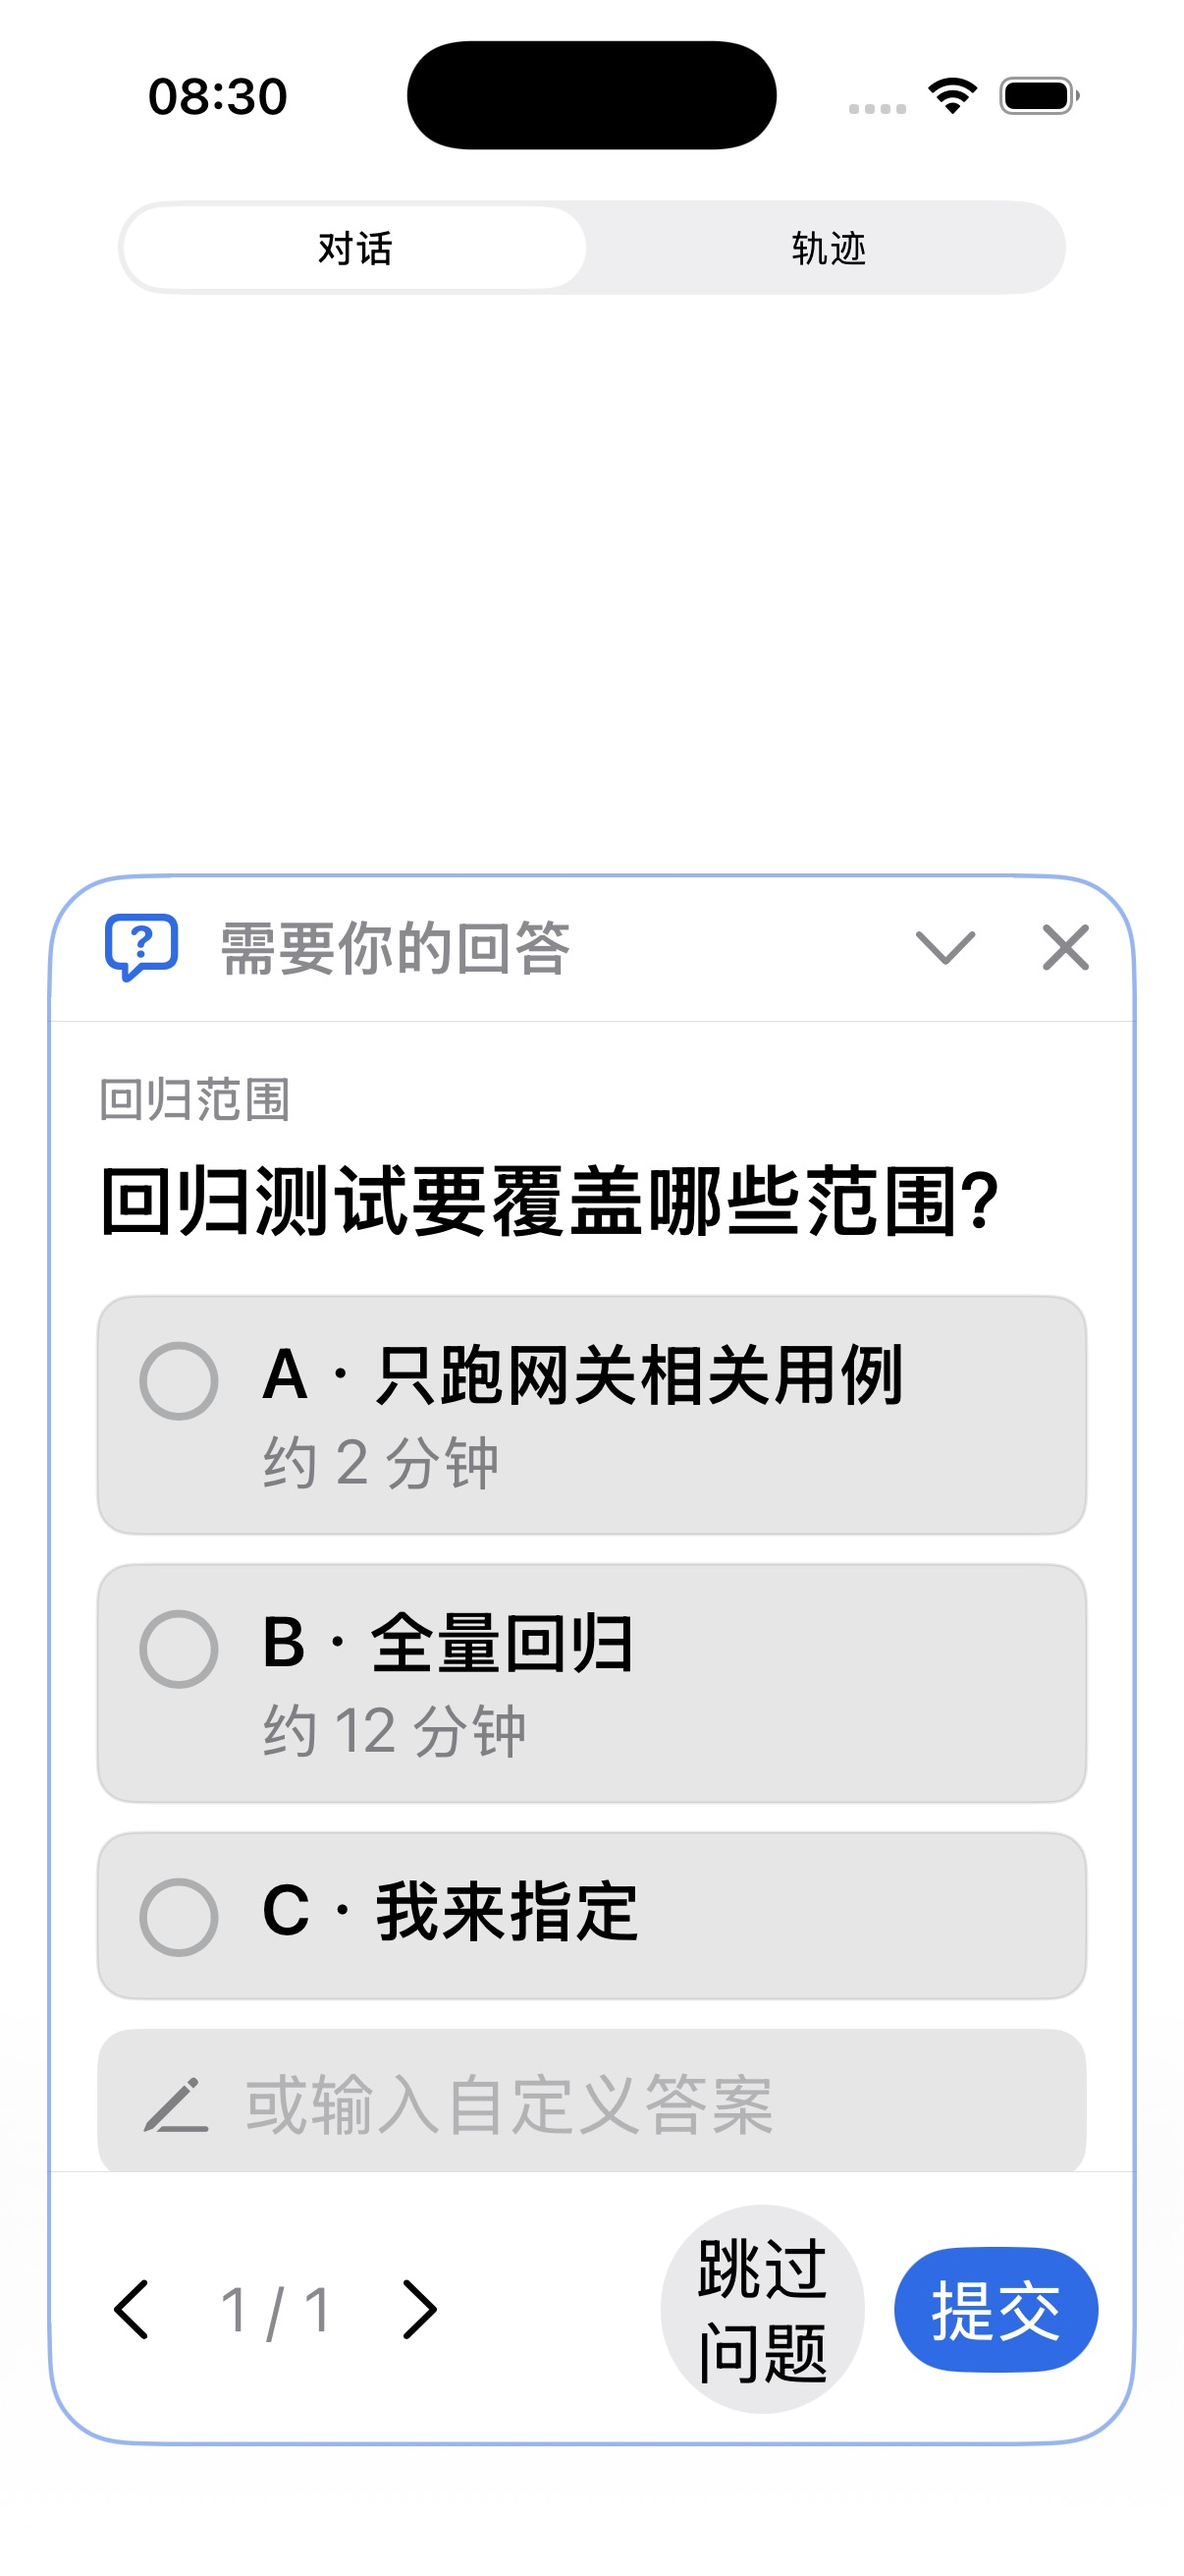
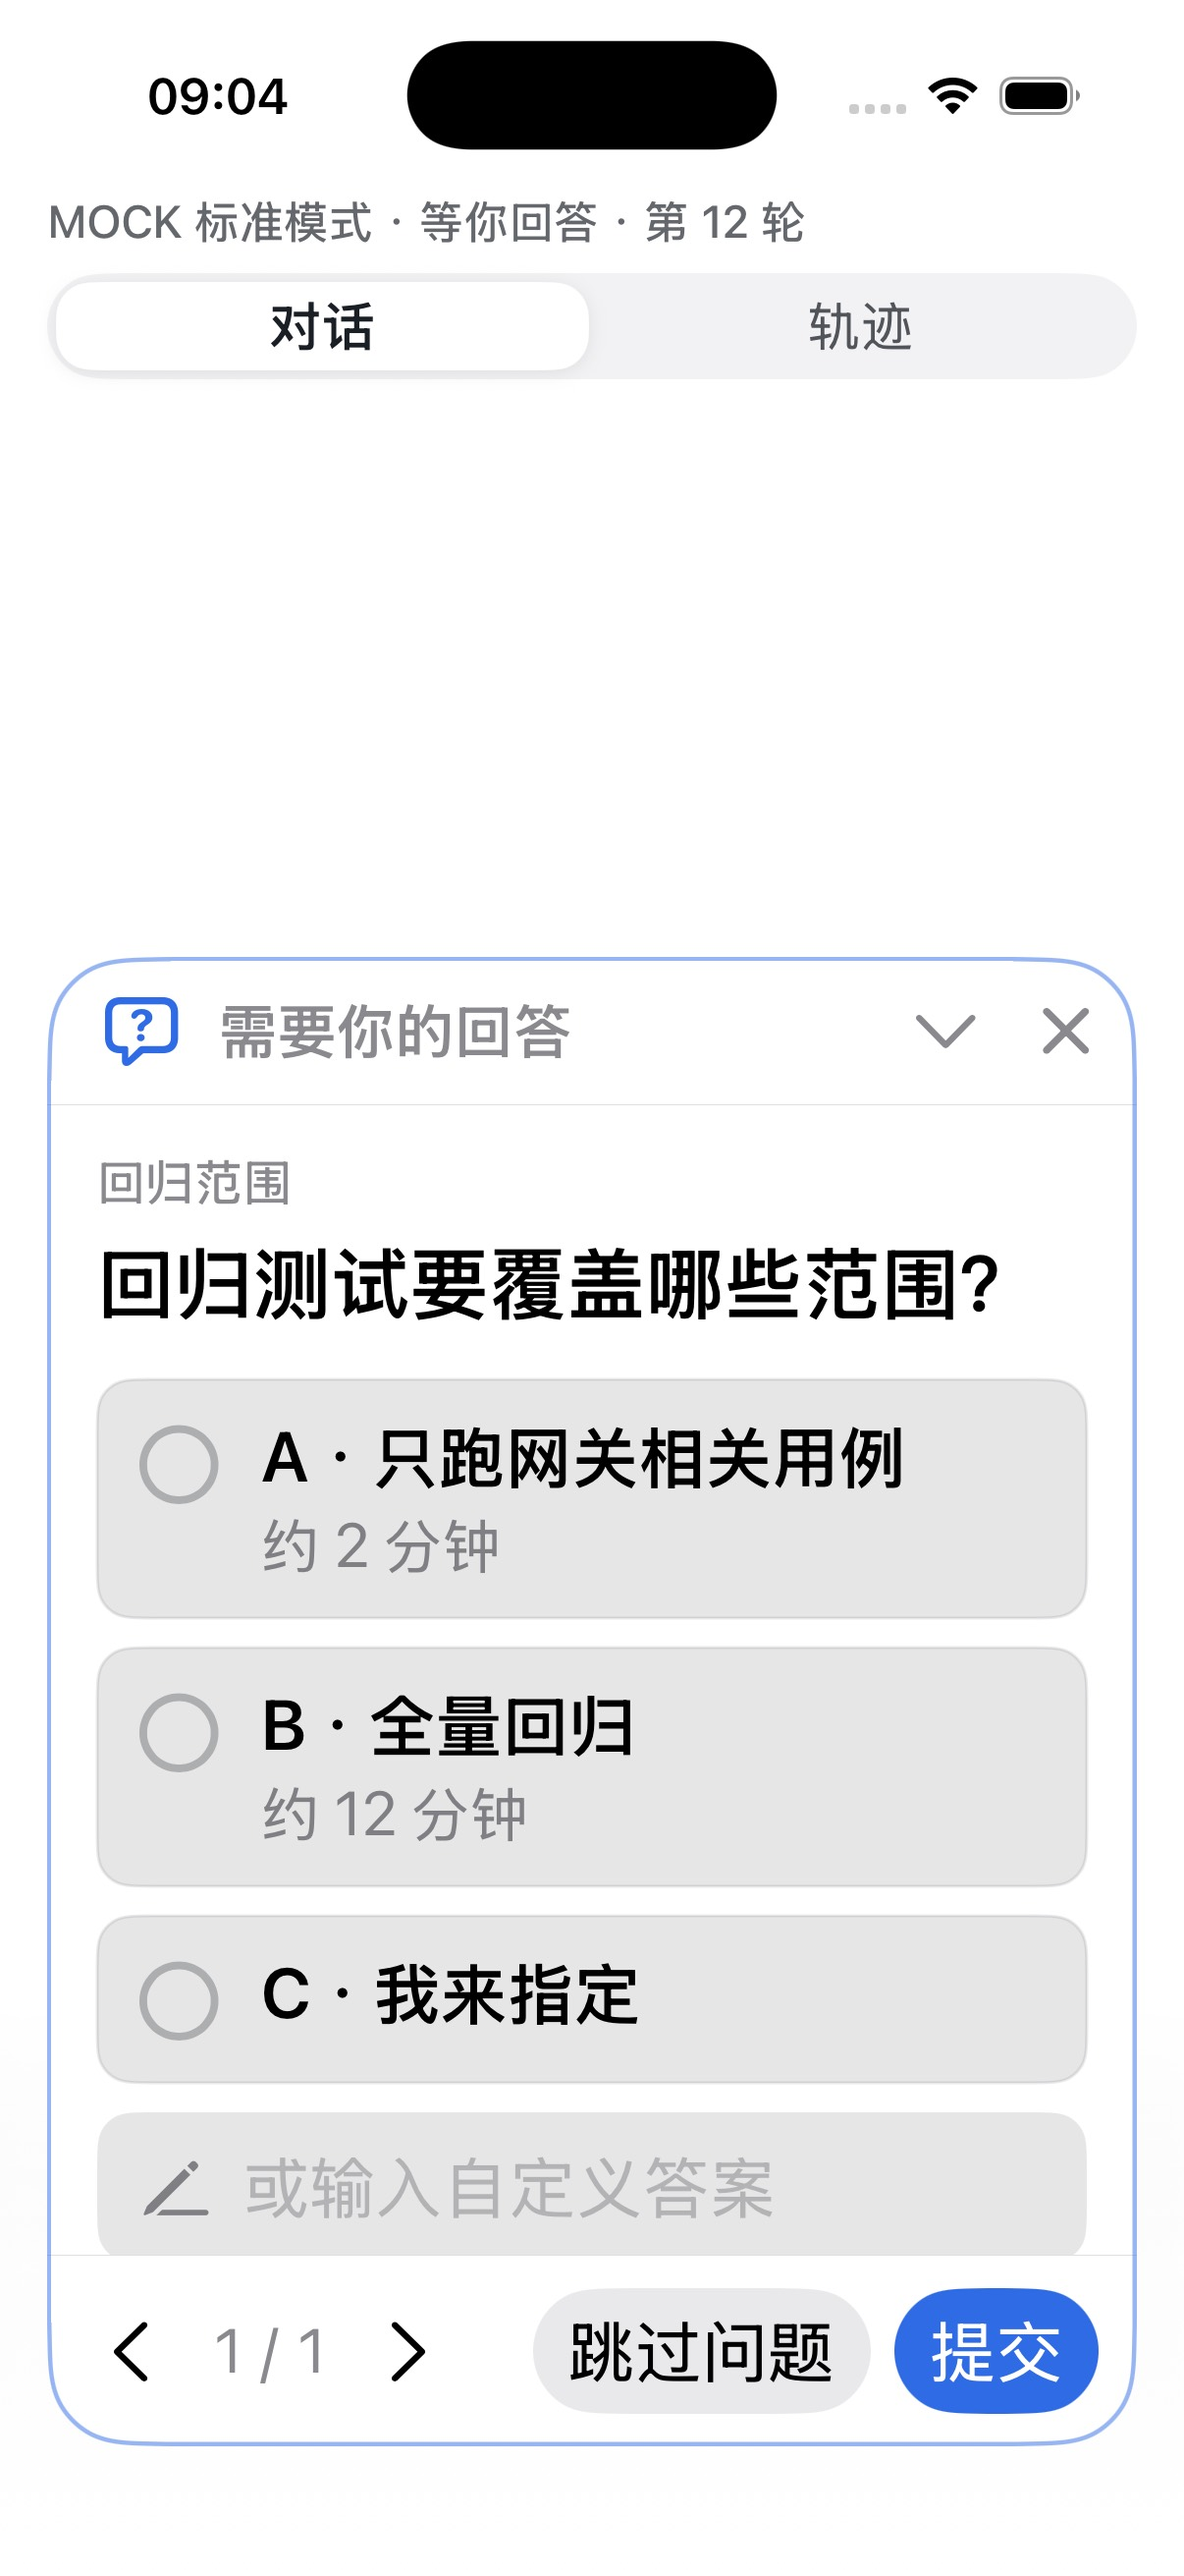
fix(ui): 05 问答卡 footer 不再拆行 —— 「跳过问题」与提交保持单行胶囊
本笔解决什么（Chief 退回项，选了方案 A）：
- footer 的「跳过问题」「提交/下一题」加 `.fixedSize(horizontal: true, vertical: false)`，
  宽度不足时**不再被系统压缩成两行**（之前渲染成「跳过 / 问题」上下叠在胶囊里）
- 翻页行 `HStack` 间距 10 → 8，给按钮组多挤 2pt

未动：翻页按钮的 `disabled` 条件、`move(to:)`、`continueFlow()`、
`showsCancelConfirmation`、`status.isBusy` 禁用语义、footer 的 `padding`。

自验证据：
- 闸门 EXIT=0（四路 0 错误 / 1.7.11 (52) / Bundle ID 前缀一致 / 团队流 3 入口 /
  收录 80/80 / 测试目标 14 文件 0 错误）
- 截图重出：05-dark.jpg / 05-light.jpg —— 「跳过问题」单行、与「提交」同排，
  底部仍**无 composer**
- 临时 mock（问题卡 + 副行）已删，grep 0 残留；RootView 已还原

坐标：分支 feat/ui-redesign-home；tag ui-baseline-conversation(705a223) 未动

diff --git a/DeepSeekHarnessMobile/Views/HumanQuestionView.swift b/DeepSeekHarnessMobile/Views/HumanQuestionView.swift
@@ -271,7 +271,7 @@ struct HumanQuestionView: View {
                     .foregroundStyle(.red)
                     .frame(maxWidth: .infinity, alignment: .leading)
             }
-            HStack(spacing: 10) {
+            HStack(spacing: 8) {
                 Button { move(to: currentIndex - 1) } label: {
                     Image(systemName: "chevron.left")
                         .frame(width: 34, height: 34)
@@ -290,6 +290,8 @@ struct HumanQuestionView: View {
 
                 Button(String(localized: "跳过问题")) { showsCancelConfirmation = true }
                     .buttonStyle(.bordered)
+                    // footer 一行放不下时不许被拆成两行（「跳过 / 问题」），保持整体语义
+                    .fixedSize(horizontal: true, vertical: false)
                     .disabled(status.isBusy)
                 Button(currentIndex == request.questions.count - 1 ? String(localized: "提交") : String(localized: "下一题")) {
                     continueFlow()
@@ -297,6 +299,7 @@ struct HumanQuestionView: View {
                 .buttonStyle(.borderedProminent)
                 .tint(DSHColor.ocean)
                 .foregroundStyle(.white)
+                .fixedSize(horizontal: true, vertical: false)
                 .disabled(status.isBusy)
             }
         }
